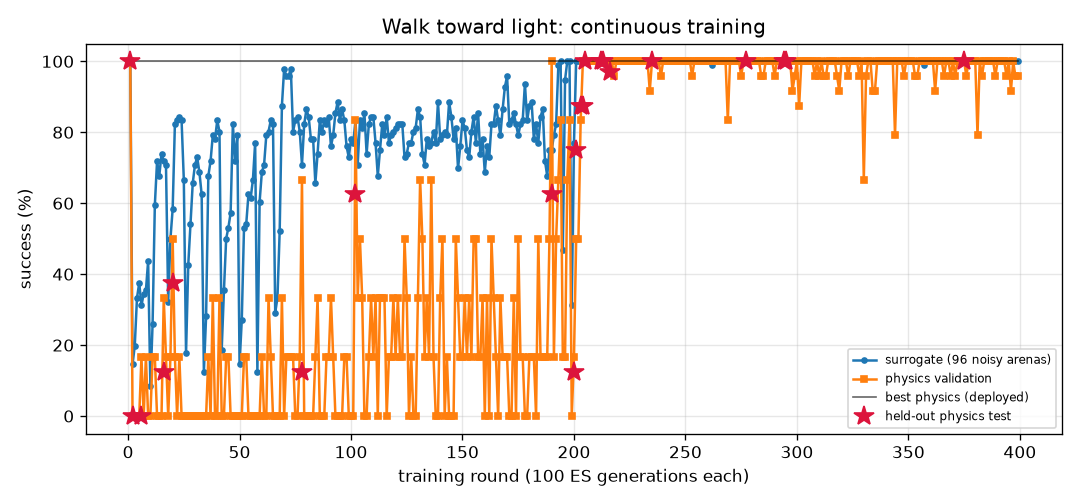
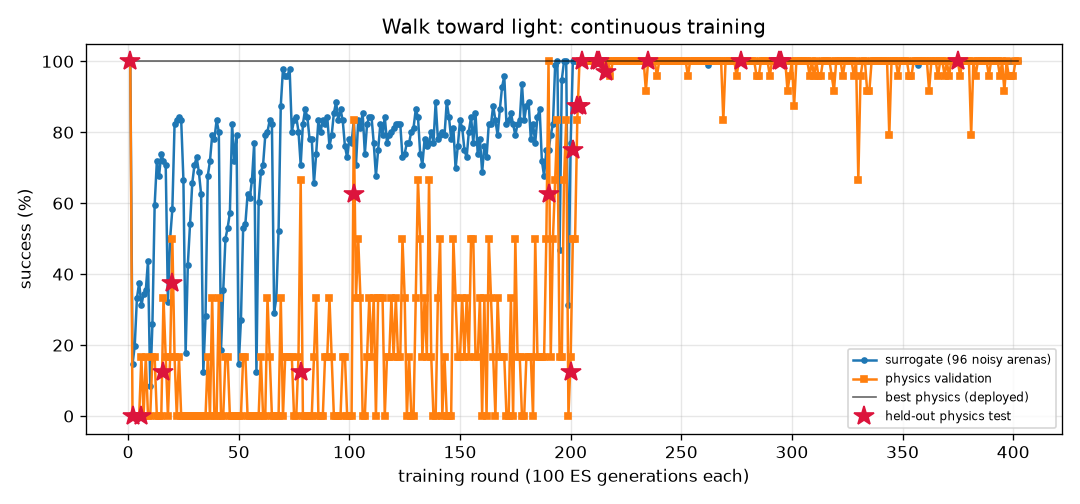
FlyLab: continuous training progress
- walk_forward: optimal, physics val 100% of 24, round 250
- turn: optimal, physics val 100% of 24, round 784
- goto: optimal, physics val 100% of 24, round 204
- odor_seek: optimal, physics val 100% of 24, round 174
- odor_avoid: optimal, physics val 100% of 24, round 718
- light_seek: optimal, physics val 100% of 24, round 402
- light_avoid: optimal, physics val 100% of 24, round 454

diff --git a/projects/09_flylab/training/walk_forward/REPORT.md b/projects/09_flylab/training/walk_forward/REPORT.md
@@ -1,14 +1,14 @@
 # Walk forward (`walk_forward`) — training report
 
-*Auto-generated by `train_brains.py`, last updated 2026-10-31T22:15:03.*
+*Auto-generated by `train_brains.py`, last updated 2026-11-01T16:11:31.*
 
 ![curve](curve.png)
 
 | | |
 |---|---|
-| rounds | 247 |
-| ES generations | 24700 |
-| physics runs | 5942 |
+| rounds | 250 |
+| ES generations | 25000 |
+| physics runs | 6014 |
 | status | **optimal** |
 | best brain | round 116: physics validation **100%** on 24 arenas, surrogate 100% |
 | held-out physics test | **100%** on 32 unseen arenas (95% CI 89%-100%) (errors: [0.13, 0.16, 0.19, 0.16, 0.15, 0.2, 0.17, 0.18, 0.17, 0.19, 0.2, 0.14, 0.17, 0.19, 0.2, 0.2, 0.13, 0.19, 0.16, 0.2, 0.2, 0.16, 0.17, 0.2, 0.13, 0.15, 0.18, 0.14, 0.16, 0.15, 0.19, 0.12]) |
@@ -17,9 +17,6 @@ Physics error per arena: mm from target at the end (< 1.5 and standing still = s
 
 | round | level | gens | sigma | surrogate | physics val | val errors | test | note |
 |---:|---:|---:|---:|---:|---:|---|---:|---|
-| 208 | 3 | 20800 | 0.024 | 100% | 100% | [0.25, 0.31, 0.09, 0.24, 0.29, 0.11, 0.3, 0.19, 0.31, 0.31, 0.17, 0.3, 0.18, 0.08, 0.26, 0.3, 0.24, 0.29, 0.16, 0.27, 0.22, 0.3, 0.21, 0.19] |  | restart from best |
-| 209 | 3 | 20900 | 0.024 | 100% | 100% | [0.26, 0.26, 0.22, 0.26, 0.27, 0.22, 0.26, 0.24, 0.26, 0.24, 0.2, 0.22, 0.24, 0.22, 0.27, 0.23, 0.26, 0.27, 0.25, 0.26, 0.25, 0.24, 0.22, 0.24] |  |  |
-| 210 | 3 | 21000 | 0.024 | 100% | 100% | [0.23, 0.27, 0.19, 0.23, 0.26, 0.19, 0.27, 0.2, 0.27, 0.25, 0.18, 0.24, 0.19, 0.19, 0.24, 0.24, 0.22, 0.26, 0.2, 0.24, 0.21, 0.25, 0.23, 0.19] |  |  |
 | 211 | 3 | 21100 | 0.024 | 100% | 100% | [0.14, 0.22, 0.1, 0.14, 0.21, 0.13, 0.21, 0.12, 0.22, 0.17, 0.1, 0.25, 0.13, 0.14, 0.23, 0.21, 0.15, 0.25, 0.18, 0.19, 0.2, 0.23, 0.24, 0.12] |  |  |
 | 212 | 3 | 21200 | 0.024 | 100% | 100% | [0.25, 0.26, 0.14, 0.21, 0.29, 0.15, 0.26, 0.17, 0.26, 0.24, 0.15, 0.24, 0.18, 0.14, 0.24, 0.24, 0.18, 0.24, 0.18, 0.23, 0.17, 0.24, 0.23, 0.19] |  | restart from best |
 | 213 | 3 | 21300 | 0.024 | 100% | 100% | [0.19, 0.19, 0.14, 0.19, 0.2, 0.06, 0.19, 0.16, 0.2, 0.18, 0.06, 0.11, 0.16, 0.13, 0.2, 0.18, 0.19, 0.2, 0.17, 0.2, 0.18, 0.18, 0.12, 0.16] |  |  |
@@ -57,3 +54,6 @@ Physics error per arena: mm from target at the end (< 1.5 and standing still = s
 | 245 | 3 | 24500 | 0.024 | 98% | 100% | [0.18, 0.19, 0.13, 0.17, 0.18, 0.14, 0.18, 0.14, 0.16, 0.17, 0.12, 0.17, 0.14, 0.11, 0.18, 0.19, 0.18, 0.17, 0.15, 0.2, 0.15, 0.19, 0.19, 0.11] |  |  |
 | 246 | 3 | 24600 | 0.025 | 100% | 100% | [0.22, 0.2, 0.2, 0.19, 0.2, 0.26, 0.2, 0.16, 0.2, 0.14, 0.22, 0.11, 0.23, 0.26, 0.16, 0.13, 0.19, 0.17, 0.16, 0.16, 0.23, 0.13, 0.12, 0.23] |  |  |
 | 247 | 3 | 24700 | 0.024 | 100% | 100% | [0.15, 0.19, 0.07, 0.16, 0.19, 0.07, 0.19, 0.07, 0.2, 0.2, 0.06, 0.19, 0.07, 0.04, 0.16, 0.2, 0.15, 0.18, 0.05, 0.17, 0.07, 0.2, 0.19, 0.07] |  |  |
+| 248 | 3 | 24800 | 0.024 | 100% | 100% | [0.38, 0.39, 0.31, 0.38, 0.39, 0.3, 0.38, 0.33, 0.39, 0.37, 0.3, 0.34, 0.33, 0.3, 0.39, 0.35, 0.37, 0.39, 0.33, 0.39, 0.34, 0.36, 0.34, 0.33] |  | restart from best |
+| 249 | 3 | 24900 | 0.024 | 100% | 54% | [0.25, 0.05, 0.4, 0.21, 0.08, 1.4, 0.08, 1.8, 0.04, 0.08, 0.61, 0.15, 2.27, 0.77, 0.42, 0.1, 0.38, 0.06, 0.02, 0.04, 0.7, 0.07, 0.1, 0.57] |  |  |
+| 250 | 3 | 25000 | 0.024 | 100% | 88% | [0.17, 0.26, 0.03, 0.16, 0.26, 0.5, 0.26, 0.08, 0.26, 0.28, 0.32, 0.26, 0.07, 0.29, 0.19, 0.27, 0.26, 0.24, 0.07, 0.2, 0.11, 0.28, 0.26, 0.07] |  |  |

diff --git a/projects/09_flylab/training/light_seek/REPORT.md b/projects/09_flylab/training/light_seek/REPORT.md
@@ -1,14 +1,14 @@
 # Walk toward light (`light_seek`) — training report
 
-*Auto-generated by `train_brains.py`, last updated 2026-10-31T21:51:10.*
+*Auto-generated by `train_brains.py`, last updated 2026-11-01T16:11:56.*
 
 ![curve](curve.png)
 
 | | |
 |---|---|
-| rounds | 399 |
-| ES generations | 39900 |
-| physics runs | 6456 |
+| rounds | 402 |
+| ES generations | 40200 |
+| physics runs | 6528 |
 | status | **optimal** |
 | best brain | round 375: physics validation **100%** on 24 arenas, surrogate 100% |
 | held-out physics test | **100%** on 32 unseen arenas (95% CI 89%-100%) (errors: [0.57, 0.54, 0.53, 0.57, 0.55, 0.56, 0.59, 0.56, 0.53, 0.56, 0.71, 0.56, 0.55, 0.54, 0.53, 0.54, 0.54, 0.55, 0.52, 0.65, 0.64, 0.7, 0.58, 0.57, 0.6, 0.62, 0.55, 0.88, 0.54, 0.52, 0.62, 0.57]) |
@@ -17,9 +17,6 @@ Physics error per arena: mm from target at the end (< 1.5 and standing still = s
 
 | round | level | gens | sigma | surrogate | physics val | val errors | test | note |
 |---:|---:|---:|---:|---:|---:|---|---:|---|
-| 360 | 3 | 36000 | 0.024 | 100% | 100% | [0.52, 0.63, 0.63, 0.62, 0.53, 0.57, 0.59, 0.61, 0.54, 1.01, 0.6, 0.65, 0.62, 0.62, 0.57, 0.56, 0.56, 0.74, 0.6, 0.63, 0.55, 0.72, 0.55, 0.88] |  |  |
-| 361 | 3 | 36100 | 0.024 | 100% | 100% | [0.76, 0.58, 0.6, 0.49, 0.58, 0.57, 0.62, 0.52, 0.57, 0.53, 0.58, 0.57, 0.59, 0.58, 0.64, 0.64, 0.56, 0.57, 0.63, 0.59, 0.64, 0.74, 0.61, 0.58] |  |  |
-| 362 | 3 | 36200 | 0.024 | 100% | 92% | [0.56, 0.46, 0.48, 0.49, 0.47, 0.55, 0.53, 0.88, 1.14, 0.56, 1.9, 0.53, 0.51, 0.54, 0.59, 0.68, 0.5, 0.58, 0.54, 0.99, 0.59, 0.59, 2.82, 0.47] |  |  |
 | 363 | 3 | 36300 | 0.024 | 100% | 100% | [0.48, 0.54, 0.48, 0.57, 0.51, 0.64, 0.49, 0.48, 0.48, 0.52, 0.52, 0.5, 1.18, 0.5, 0.55, 0.53, 0.46, 0.48, 0.48, 0.5, 0.51, 0.5, 0.5, 0.51] |  | restart from best |
 | 364 | 3 | 36400 | 0.024 | 100% | 100% | [0.57, 0.53, 0.5, 0.55, 0.56, 0.74, 0.55, 0.86, 0.55, 0.51, 0.54, 0.5, 0.6, 0.59, 0.57, 0.7, 0.58, 0.5, 0.56, 0.53, 0.61, 0.5, 0.56, 0.67] |  |  |
 | 365 | 3 | 36500 | 0.024 | 100% | 100% | [0.63, 0.51, 0.59, 0.51, 0.48, 0.5, 0.46, 0.58, 0.7, 0.47, 0.62, 0.63, 0.54, 0.95, 0.7, 0.62, 0.49, 1.23, 0.47, 0.47, 0.58, 1.07, 0.47, 0.48] |  |  |
@@ -57,3 +54,6 @@ Physics error per arena: mm from target at the end (< 1.5 and standing still = s
 | 397 | 3 | 39700 | 0.024 | 100% | 100% | [0.57, 0.58, 0.6, 0.57, 0.55, 0.69, 0.76, 0.64, 0.64, 0.59, 0.61, 0.62, 0.68, 0.59, 0.6, 0.65, 0.59, 0.75, 0.59, 0.6, 0.58, 0.61, 0.56, 0.61] |  |  |
 | 398 | 3 | 39800 | 0.024 | 100% | 96% | [0.61, 0.55, 0.76, 0.58, 0.55, 0.57, 0.54, 0.55, 0.67, 0.56, 0.71, 0.56, 0.68, 1.94, 0.77, 0.56, 0.55, 0.73, 0.56, 0.74, 0.74, 0.54, 0.85, 1.3] |  |  |
 | 399 | 3 | 39900 | 0.024 | 100% | 96% | [0.68, 0.5, 0.61, 0.59, 0.5, 0.58, 0.59, 0.5, 0.53, 0.52, 0.5, 0.5, 0.52, 0.49, 0.68, 0.56, 0.55, 0.49, 0.5, 1.43, 1.26, 0.5, 0.55, 0.56] |  | restart from best |
+| 400 | 3 | 40000 | 0.024 | 100% | 96% | [0.55, 0.54, 0.55, 0.56, 0.53, 0.57, 0.59, 0.58, 1.53, 0.52, 0.54, 0.54, 0.52, 0.59, 0.92, 0.48, 0.52, 0.57, 0.62, 0.58, 0.52, 0.55, 0.66, 0.66] |  |  |
+| 401 | 3 | 40100 | 0.024 | 100% | 100% | [0.73, 0.63, 0.65, 0.64, 0.74, 0.74, 0.62, 0.68, 0.66, 0.63, 0.67, 0.6, 0.73, 0.71, 0.82, 0.64, 0.67, 0.75, 0.64, 0.71, 0.7, 0.55, 0.69, 0.81] |  |  |
+| 402 | 3 | 40200 | 0.024 | 100% | 100% | [0.54, 0.56, 0.62, 0.57, 0.47, 0.58, 0.54, 0.5, 1.02, 0.55, 0.57, 0.47, 0.52, 0.53, 0.63, 0.5, 0.5, 0.49, 0.54, 0.71, 0.51, 0.51, 0.55, 0.47] |  |  |

diff --git a/projects/09_flylab/training/light_avoid/REPORT.md b/projects/09_flylab/training/light_avoid/REPORT.md
@@ -1,14 +1,14 @@
 # Hide from light (`light_avoid`) — training report
 
-*Auto-generated by `train_brains.py`, last updated 2026-11-01T15:18:04.*
+*Auto-generated by `train_brains.py`, last updated 2026-11-01T15:37:53.*
 
 ![curve](curve.png)
 
 | | |
 |---|---|
-| rounds | 452 |
-| ES generations | 45200 |
-| physics runs | 11120 |
+| rounds | 454 |
+| ES generations | 45400 |
+| physics runs | 11168 |
 | status | **optimal** |
 | best brain | round 159: physics validation **100%** on 24 arenas, surrogate 100% |
 | held-out physics test | **100%** on 32 unseen arenas (95% CI 89%-100%) (errors: [14.4, 56.1, 58.0, 57.9, 57.5, 14.0, 14.4, 56.6, 56.8, 13.3, 14.1, 56.6, 57.6, 13.1, 57.3, 55.9, 57.2, 55.0, 55.2, 53.9, 55.2, 12.4, 53.8, 53.7, 14.1, 13.7, 55.0, 57.8, 56.2, 13.1, 52.8, 56.5]) |
@@ -17,8 +17,6 @@ Physics error per arena: mm gained away from source (> 6 without first approachi
 
 | round | level | gens | sigma | surrogate | physics val | val errors | test | note |
 |---:|---:|---:|---:|---:|---:|---|---:|---|
-| 413 | 3 | 41300 | 0.024 | 100% | 100% | [47.5, 49.2, 48.5, 48.6, 51.8, 48.1, 46.3, 14.5, 49.2, 13.2, 51.5, 52.1, 14.4, 51.6, 48.8, 48.1, 14.2, 52.1, 49.2, 14.4, 50.0, 51.6, 47.1, 51.8] |  |  |
-| 414 | 3 | 41400 | 0.024 | 100% | 100% | [46.0, 47.5, 46.7, 47.7, 50.5, 46.5, 44.7, 14.5, 47.4, 13.5, 50.6, 50.8, 14.4, 50.1, 47.0, 47.4, 14.2, 50.7, 47.4, 14.4, 47.0, 49.9, 44.9, 51.0] |  |  |
 | 415 | 3 | 41500 | 0.024 | 100% | 100% | [57.2, 61.9, 61.6, 57.8, 61.7, 58.6, 60.4, 14.5, 57.0, 13.3, 60.1, 61.5, 14.4, 59.5, 61.7, 57.3, 14.2, 62.2, 62.3, 14.4, 58.5, 60.3, 59.9, 60.9] |  | restart from best |
 | 416 | 3 | 41600 | 0.024 | 100% | 100% | [57.0, 58.8, 58.6, 56.7, 58.5, 57.0, 57.4, 14.5, 54.1, 13.3, 57.8, 58.3, 14.4, 56.4, 58.7, 56.6, 14.2, 59.0, 59.3, 14.4, 55.0, 57.5, 57.2, 57.8] |  |  |
 | 417 | 3 | 41700 | 0.024 | 100% | 100% | [43.2, 44.1, 43.7, 44.7, 47.1, 42.8, 41.5, 14.5, 43.8, 13.3, 47.0, 47.5, 14.4, 46.9, 43.8, 44.8, 14.2, 46.9, 44.6, 14.4, 43.3, 46.8, 42.9, 47.4] |  |  |
@@ -57,3 +55,5 @@ Physics error per arena: mm gained away from source (> 6 without first approachi
 | 450 | 3 | 45000 | 0.024 | 100% | 100% | [52.2, 54.4, 54.3, 52.6, 52.3, 52.9, 53.4, 14.5, 43.7, 13.5, 53.8, 52.4, 14.4, 51.9, 54.4, 52.0, 14.2, 53.2, 54.3, 14.4, 51.4, 54.0, 53.2, 51.3] |  |  |
 | 451 | 3 | 45100 | 0.024 | 100% | 100% | [40.3, 41.3, 41.1, 41.4, 42.2, 38.9, 37.4, 14.5, 40.0, 13.5, 43.7, 42.6, 14.4, 44.1, 40.6, 41.7, 14.2, 42.9, 42.2, 14.4, 41.1, 43.0, 37.5, 43.3] |  | restart from best |
 | 452 | 3 | 45200 | 0.024 | 100% | 100% | [51.2, 54.7, 54.2, 52.9, 56.2, 52.3, 52.6, 14.5, 53.5, 13.3, 56.4, 56.4, 14.4, 54.6, 54.7, 51.5, 14.2, 56.5, 54.4, 14.4, 54.0, 56.4, 53.3, 55.8] |  |  |
+| 453 | 3 | 45300 | 0.024 | 99% | 100% | [35.6, 37.5, 36.2, 37.2, 40.8, 36.3, 35.5, 14.5, 39.8, 13.5, 41.0, 41.5, 14.4, 41.6, 36.5, 30.3, 14.2, 39.6, 37.9, 14.4, 8.4, 42.2, 34.3, 41.5] |  |  |
+| 454 | 3 | 45400 | 0.025 | 97% | 96% | [9.8, 57.4, 56.5, 52.6, 58.8, 53.9, 54.7, 14.5, 43.9, 13.3, 57.6, 58.3, 14.4, 57.2, 56.7, 8.9, 14.2, 58.5, 57.8, 14.4, 8.8, 56.0, 55.4, 58.2] |  |  |

diff --git a/projects/09_flylab/training/TRAINING.md b/projects/09_flylab/training/TRAINING.md
@@ -1,15 +1,15 @@
 # FlyLab brains — continuous training log
 
-*Auto-generated by `train_brains.py`, last updated 2026-11-01T15:23:07.*
+*Auto-generated by `train_brains.py`, last updated 2026-11-01T16:11:57.*
 
 Every skill has its own brain and its own training process: surrogate ES rounds, physics validation in MuJoCo, keep-the-best selection, and a held-out physics test that is never used for selection. See each skill's report for its full round-by-round history. Mastery is progressive: passing a level (100% physics validation, >=95% surrogate) doubles the validation and test arena sets; a brain is **optimal** once it holds up at level 3 (>=95% of 24 validation arenas) AND scores >=90% on the 32 held-out test arenas. Test columns show 95% Wilson confidence intervals.
 
 | skill | rounds | ES generations | physics runs | surrogate | physics val | **physics test** | status |
 |---|---:|---:|---:|---:|---:|---:|---|
-| [Walk forward](walk_forward/REPORT.md) | 247 | 24700 | 5942 | 100% | 100% of 24 | 100% of 32 (CI 89-100%) | **optimal** |
+| [Walk forward](walk_forward/REPORT.md) | 250 | 25000 | 6014 | 100% | 100% of 24 | 100% of 32 (CI 89-100%) | **optimal** |
 | [Turn in place](turn/REPORT.md) | 784 | 78400 | 19062 | 100% | 100% of 24 | 97% of 32 (CI 84-99%) | **optimal** |
 | [Go to a location](goto/REPORT.md) | 204 | 20400 | 4846 | 100% | 100% of 24 | 100% of 32 (CI 89-100%) | **optimal** |
 | [Find food by smell](odor_seek/REPORT.md) | 174 | 17400 | 3606 | 100% | 100% of 24 | 100% of 32 (CI 89-100%) | **optimal** |
 | [Escape a bad smell](odor_avoid/REPORT.md) | 718 | 71800 | 14538 | 97% | 100% of 24 | 97% of 32 (CI 84-99%) | **optimal** |
-| [Walk toward light](light_seek/REPORT.md) | 399 | 39900 | 6456 | 100% | 100% of 24 | 100% of 32 (CI 89-100%) | **optimal** |
-| [Hide from light](light_avoid/REPORT.md) | 452 | 45200 | 11120 | 100% | 100% of 24 | 100% of 32 (CI 89-100%) | **optimal** |
+| [Walk toward light](light_seek/REPORT.md) | 402 | 40200 | 6528 | 100% | 100% of 24 | 100% of 32 (CI 89-100%) | **optimal** |
+| [Hide from light](light_avoid/REPORT.md) | 454 | 45400 | 11168 | 100% | 100% of 24 | 100% of 32 (CI 89-100%) | **optimal** |
